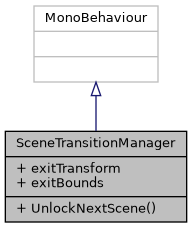
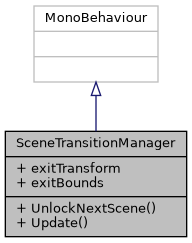
small fix

diff --git a/docs/classSceneTransitionManager.html b/docs/classSceneTransitionManager.html
@@ -79,7 +79,7 @@ Inheritance diagram for SceneTransitionManager:</div>
 <div class="dyncontent">
 <div class="center"><img src="classSceneTransitionManager__inherit__graph.png" border="0" usemap="#aSceneTransitionManager_inherit__map" alt="Inheritance graph"/></div>
 <map name="aSceneTransitionManager_inherit__map" id="aSceneTransitionManager_inherit__map">
-<area shape="rect" title="Script responsible for handling player entry and exit from mission scenes." alt="" coords="5,131,187,223"/>
+<area shape="rect" title="Script responsible for handling player entry and exit from mission scenes." alt="" coords="5,131,187,237"/>
 <area shape="rect" title=" " alt="" coords="34,5,158,83"/>
 </map>
 </div>
@@ -88,7 +88,7 @@ Collaboration diagram for SceneTransitionManager:</div>
 <div class="dyncontent">
 <div class="center"><img src="classSceneTransitionManager__coll__graph.png" border="0" usemap="#aSceneTransitionManager_coll__map" alt="Collaboration graph"/></div>
 <map name="aSceneTransitionManager_coll__map" id="aSceneTransitionManager_coll__map">
-<area shape="rect" title="Script responsible for handling player entry and exit from mission scenes." alt="" coords="5,131,187,223"/>
+<area shape="rect" title="Script responsible for handling player entry and exit from mission scenes." alt="" coords="5,131,187,237"/>
 <area shape="rect" title=" " alt="" coords="34,5,158,83"/>
 </map>
 </div>
@@ -98,6 +98,9 @@ Public Member Functions</h2></td></tr>
 <tr class="memitem:abd1dafac9b3570cfcc21316ab5d5703b"><td class="memItemLeft" align="right" valign="top">void&#160;</td><td class="memItemRight" valign="bottom"><a class="el" href="classSceneTransitionManager.html#abd1dafac9b3570cfcc21316ab5d5703b">UnlockNextScene</a> ()</td></tr>
 <tr class="memdesc:abd1dafac9b3570cfcc21316ab5d5703b"><td class="mdescLeft">&#160;</td><td class="mdescRight">Allows the player to move to the next scene.  <a href="classSceneTransitionManager.html#abd1dafac9b3570cfcc21316ab5d5703b">More...</a><br /></td></tr>
 <tr class="separator:abd1dafac9b3570cfcc21316ab5d5703b"><td class="memSeparator" colspan="2">&#160;</td></tr>
+<tr class="memitem:a5ca217978c47772f1e456761f56a6e25"><td class="memItemLeft" align="right" valign="top">void&#160;</td><td class="memItemRight" valign="bottom"><a class="el" href="classSceneTransitionManager.html#a5ca217978c47772f1e456761f56a6e25">Update</a> ()</td></tr>
+<tr class="memdesc:a5ca217978c47772f1e456761f56a6e25"><td class="mdescLeft">&#160;</td><td class="mdescRight">Checks if the player can move to the next scene.  <a href="classSceneTransitionManager.html#a5ca217978c47772f1e456761f56a6e25">More...</a><br /></td></tr>
+<tr class="separator:a5ca217978c47772f1e456761f56a6e25"><td class="memSeparator" colspan="2">&#160;</td></tr>
 </table><table class="memberdecls">
 <tr class="heading"><td colspan="2"><h2 class="groupheader"><a id="pub-attribs" name="pub-attribs"></a>
 Public Attributes</h2></td></tr>
@@ -139,6 +142,40 @@ Public Attributes</h2></td></tr>
 <p>Allows the player to move to the next scene. </p>
 
 <p class="definition">Definition at line <a class="el" href="SceneTransitionManager_8cs_source.html#l00019">19</a> of file <a class="el" href="SceneTransitionManager_8cs_source.html">SceneTransitionManager.cs</a>.</p>
+
+</div>
+</div>
+<a id="a5ca217978c47772f1e456761f56a6e25" name="a5ca217978c47772f1e456761f56a6e25"></a>
+<h2 class="memtitle"><span class="permalink"><a href="#a5ca217978c47772f1e456761f56a6e25">&#9670;&nbsp;</a></span>Update()</h2>
+
+<div class="memitem">
+<div class="memproto">
+<table class="mlabels">
+  <tr>
+  <td class="mlabels-left">
+      <table class="memname">
+        <tr>
+          <td class="memname">void SceneTransitionManager.Update </td>
+          <td>(</td>
+          <td class="paramname"></td><td>)</td>
+          <td></td>
+        </tr>
+      </table>
+  </td>
+  <td class="mlabels-right">
+<span class="mlabels"><span class="mlabel">inline</span></span>  </td>
+  </tr>
+</table>
+</div><div class="memdoc">
+
+<p>Checks if the player can move to the next scene. </p>
+<dl class="todo"><dt><b><a class="el" href="todo.html#_todo000022">Todo:</a></b></dt><dd><ul>
+<li>
+Test this to make sure it works.  </li>
+</ul>
+</dd></dl>
+
+<p class="definition">Definition at line <a class="el" href="SceneTransitionManager_8cs_source.html#l00033">33</a> of file <a class="el" href="SceneTransitionManager_8cs_source.html">SceneTransitionManager.cs</a>.</p>
 
 </div>
 </div>

diff --git a/docs/SceneTransitionManager_8cs_source.html b/docs/SceneTransitionManager_8cs_source.html
@@ -88,7 +88,7 @@ $(function() {
 <div class="line"><a id="l00021" name="l00021"></a><span class="lineno">   21</span>        canMoveToNextScene = <span class="keyword">true</span>;</div>
 <div class="line"><a id="l00022" name="l00022"></a><span class="lineno">   22</span>    }</div>
 <div class="line"><a id="l00023" name="l00023"></a><span class="lineno">   23</span> </div>
-<div class="line"><a id="l00033" name="l00033"></a><span class="lineno">   33</span>    <span class="keywordtype">void</span> Update()</div>
+<div class="line"><a id="l00033" name="l00033"></a><span class="lineno"><a class="line" href="classSceneTransitionManager.html#a5ca217978c47772f1e456761f56a6e25">   33</a></span>    <span class="keyword">public</span> <span class="keywordtype">void</span> <a class="code hl_function" href="classSceneTransitionManager.html#a5ca217978c47772f1e456761f56a6e25">Update</a>()</div>
 <div class="line"><a id="l00034" name="l00034"></a><span class="lineno">   34</span>    {</div>
 <div class="line"><a id="l00035" name="l00035"></a><span class="lineno">   35</span>        <span class="keywordflow">if</span> (canMoveToNextScene)</div>
 <div class="line"><a id="l00036" name="l00036"></a><span class="lineno">   36</span>        {</div>
@@ -104,6 +104,7 @@ $(function() {
 <div class="line"><a id="l00046" name="l00046"></a><span class="lineno">   46</span>}</div>
 <div class="ttc" id="aclassSceneTransitionManager_html"><div class="ttname"><a href="classSceneTransitionManager.html">SceneTransitionManager</a></div><div class="ttdoc">Script responsible for handling player entry and exit from mission scenes.</div><div class="ttdef"><b>Definition:</b> <a href="SceneTransitionManager_8cs_source.html#l00009">SceneTransitionManager.cs:10</a></div></div>
 <div class="ttc" id="aclassSceneTransitionManager_html_a3ec9f087ce9e9ae9518dba92ef861a9b"><div class="ttname"><a href="classSceneTransitionManager.html#a3ec9f087ce9e9ae9518dba92ef861a9b">SceneTransitionManager.exitTransform</a></div><div class="ttdeci">Transform exitTransform</div><div class="ttdoc">The transform of the exit point.</div><div class="ttdef"><b>Definition:</b> <a href="SceneTransitionManager_8cs_source.html#l00011">SceneTransitionManager.cs:11</a></div></div>
+<div class="ttc" id="aclassSceneTransitionManager_html_a5ca217978c47772f1e456761f56a6e25"><div class="ttname"><a href="classSceneTransitionManager.html#a5ca217978c47772f1e456761f56a6e25">SceneTransitionManager.Update</a></div><div class="ttdeci">void Update()</div><div class="ttdoc">Checks if the player can move to the next scene.</div><div class="ttdef"><b>Definition:</b> <a href="SceneTransitionManager_8cs_source.html#l00033">SceneTransitionManager.cs:33</a></div></div>
 <div class="ttc" id="aclassSceneTransitionManager_html_aa595989291f12a1ea5c2312cb613b494"><div class="ttname"><a href="classSceneTransitionManager.html#aa595989291f12a1ea5c2312cb613b494">SceneTransitionManager.exitBounds</a></div><div class="ttdeci">Rect exitBounds</div><div class="ttdoc">The bounds of the exit point.</div><div class="ttdef"><b>Definition:</b> <a href="SceneTransitionManager_8cs_source.html#l00012">SceneTransitionManager.cs:12</a></div></div>
 <div class="ttc" id="aclassSceneTransitionManager_html_abd1dafac9b3570cfcc21316ab5d5703b"><div class="ttname"><a href="classSceneTransitionManager.html#abd1dafac9b3570cfcc21316ab5d5703b">SceneTransitionManager.UnlockNextScene</a></div><div class="ttdeci">void UnlockNextScene()</div><div class="ttdoc">Allows the player to move to the next scene.</div><div class="ttdef"><b>Definition:</b> <a href="SceneTransitionManager_8cs_source.html#l00019">SceneTransitionManager.cs:19</a></div></div>
 </div><!-- fragment --></div><!-- contents -->

diff --git a/docs/classSceneTransitionManager-members.html b/docs/classSceneTransitionManager-members.html
@@ -73,6 +73,7 @@ $(function() {
   <tr class="even"><td class="entry"><a class="el" href="classSceneTransitionManager.html#aa595989291f12a1ea5c2312cb613b494">exitBounds</a></td><td class="entry"><a class="el" href="classSceneTransitionManager.html">SceneTransitionManager</a></td><td class="entry"></td></tr>
   <tr class="odd"><td class="entry"><a class="el" href="classSceneTransitionManager.html#a3ec9f087ce9e9ae9518dba92ef861a9b">exitTransform</a></td><td class="entry"><a class="el" href="classSceneTransitionManager.html">SceneTransitionManager</a></td><td class="entry"></td></tr>
   <tr class="even"><td class="entry"><a class="el" href="classSceneTransitionManager.html#abd1dafac9b3570cfcc21316ab5d5703b">UnlockNextScene</a>()</td><td class="entry"><a class="el" href="classSceneTransitionManager.html">SceneTransitionManager</a></td><td class="entry"><span class="mlabel">inline</span></td></tr>
+  <tr class="odd"><td class="entry"><a class="el" href="classSceneTransitionManager.html#a5ca217978c47772f1e456761f56a6e25">Update</a>()</td><td class="entry"><a class="el" href="classSceneTransitionManager.html">SceneTransitionManager</a></td><td class="entry"><span class="mlabel">inline</span></td></tr>
 </table></div><!-- contents -->
 <!-- start footer part -->
 <hr class="footer"/><address class="footer"><small>

diff --git a/docs/search/all_13.js b/docs/search/all_13.js
@@ -5,7 +5,7 @@ var searchData=
   ['uiscript_2',['UIScript',['../classUIScript.html',1,'']]],
   ['unlocknextscene_3',['UnlockNextScene',['../classSceneTransitionManager.html#abd1dafac9b3570cfcc21316ab5d5703b',1,'SceneTransitionManager']]],
   ['up_4',['Up',['../classNodeAI_1_1NodeAI__Senses.html#a3c8278666654440a96487395e4b6598ea258f49887ef8d14ac268c92b02503aaa',1,'NodeAI::NodeAI_Senses']]],
-  ['update_5',['Update',['../classDamageDealer.html#a3d01a0c3dc2cec082b2e169bbb0070be',1,'DamageDealer']]],
+  ['update_5',['Update',['../classDamageDealer.html#a3d01a0c3dc2cec082b2e169bbb0070be',1,'DamageDealer.Update()'],['../classSceneTransitionManager.html#a5ca217978c47772f1e456761f56a6e25',1,'SceneTransitionManager.Update()']]],
   ['urgency_6',['urgency',['../classNodeAI_1_1SensoryEvent.html#a3ed5c37201466652bea74f6c184497e2',1,'NodeAI::SensoryEvent']]],
   ['usecorrectbait_7',['UseCorrectBait',['../classBossArenaController.html#a0185eaf9e891043798261ce9e8985836',1,'BossArenaController']]],
   ['usesstats_8',['UsesStats',['../interfaceStatsManager_1_1UsesStats.html',1,'StatsManager']]],

diff --git a/docs/functions_u.html b/docs/functions_u.html
@@ -68,7 +68,7 @@ $(function() {
 
 <h3><a id="index_u" name="index_u"></a>- u -</h3><ul>
 <li>UnlockNextScene()&#160;:&#160;<a class="el" href="classSceneTransitionManager.html#abd1dafac9b3570cfcc21316ab5d5703b">SceneTransitionManager</a></li>
-<li>Update()&#160;:&#160;<a class="el" href="classDamageDealer.html#a3d01a0c3dc2cec082b2e169bbb0070be">DamageDealer</a></li>
+<li>Update()&#160;:&#160;<a class="el" href="classDamageDealer.html#a3d01a0c3dc2cec082b2e169bbb0070be">DamageDealer</a>, <a class="el" href="classSceneTransitionManager.html#a5ca217978c47772f1e456761f56a6e25">SceneTransitionManager</a></li>
 <li>urgency&#160;:&#160;<a class="el" href="classNodeAI_1_1SensoryEvent.html#a3ed5c37201466652bea74f6c184497e2">NodeAI.SensoryEvent</a></li>
 <li>UseCorrectBait()&#160;:&#160;<a class="el" href="classBossArenaController.html#a0185eaf9e891043798261ce9e8985836">BossArenaController</a></li>
 <li>UseWrongBait()&#160;:&#160;<a class="el" href="classBossArenaController.html#a550371922bc7dfd3d47520457cdd2015">BossArenaController</a></li>

diff --git a/docs/functions_func_u.html b/docs/functions_func_u.html
@@ -68,7 +68,7 @@ $(function() {
 
 <h3><a id="index_u" name="index_u"></a>- u -</h3><ul>
 <li>UnlockNextScene()&#160;:&#160;<a class="el" href="classSceneTransitionManager.html#abd1dafac9b3570cfcc21316ab5d5703b">SceneTransitionManager</a></li>
-<li>Update()&#160;:&#160;<a class="el" href="classDamageDealer.html#a3d01a0c3dc2cec082b2e169bbb0070be">DamageDealer</a></li>
+<li>Update()&#160;:&#160;<a class="el" href="classDamageDealer.html#a3d01a0c3dc2cec082b2e169bbb0070be">DamageDealer</a>, <a class="el" href="classSceneTransitionManager.html#a5ca217978c47772f1e456761f56a6e25">SceneTransitionManager</a></li>
 <li>UseCorrectBait()&#160;:&#160;<a class="el" href="classBossArenaController.html#a0185eaf9e891043798261ce9e8985836">BossArenaController</a></li>
 <li>UseWrongBait()&#160;:&#160;<a class="el" href="classBossArenaController.html#a550371922bc7dfd3d47520457cdd2015">BossArenaController</a></li>
 </ul>

diff --git a/docs/search/functions_d.js b/docs/search/functions_d.js
@@ -1,7 +1,7 @@
 var searchData=
 [
   ['unlocknextscene_0',['UnlockNextScene',['../classSceneTransitionManager.html#abd1dafac9b3570cfcc21316ab5d5703b',1,'SceneTransitionManager']]],
-  ['update_1',['Update',['../classDamageDealer.html#a3d01a0c3dc2cec082b2e169bbb0070be',1,'DamageDealer']]],
+  ['update_1',['Update',['../classDamageDealer.html#a3d01a0c3dc2cec082b2e169bbb0070be',1,'DamageDealer.Update()'],['../classSceneTransitionManager.html#a5ca217978c47772f1e456761f56a6e25',1,'SceneTransitionManager.Update()']]],
   ['usecorrectbait_2',['UseCorrectBait',['../classBossArenaController.html#a0185eaf9e891043798261ce9e8985836',1,'BossArenaController']]],
   ['usewrongbait_3',['UseWrongBait',['../classBossArenaController.html#a550371922bc7dfd3d47520457cdd2015',1,'BossArenaController']]]
 ];

diff --git a/docs/todo.html b/docs/todo.html
@@ -155,6 +155,12 @@ Make the object persistent.  </li>
 <dd><a class="anchor" id="_todo000006"></a>Comment  </dd>
 <dt>Class <a class="el" href="classSaveManager.html">SaveManager</a>  </dt>
 <dd><a class="anchor" id="_todo000043"></a>Comment  </dd>
+<dt>Member <a class="el" href="classSceneTransitionManager.html#a5ca217978c47772f1e456761f56a6e25">SceneTransitionManager.Update</a>  ()</dt>
+<dd><a class="anchor" id="_todo000022"></a> <ul>
+<li>
+Test this to make sure it works.  </li>
+</ul>
+</dd>
 <dt>Class <a class="el" href="classTestAction.html">TestAction</a>  </dt>
 <dd><a class="anchor" id="_todo000056"></a>Comment  </dd>
 <dt>Class <a class="el" href="classTileMission.html">TileMission</a>  </dt>

diff --git a/Assets/Scripts/Missions/SceneTransitionManager.cs b/Assets/Scripts/Missions/SceneTransitionManager.cs
@@ -30,7 +30,7 @@ public class SceneTransitionManager : MonoBehaviour
     ///       Test this to make sure it works.
     ///     </item>
     ///   </list>
-    void Update()
+    public void Update()
     {
         if (canMoveToNextScene)
         {
